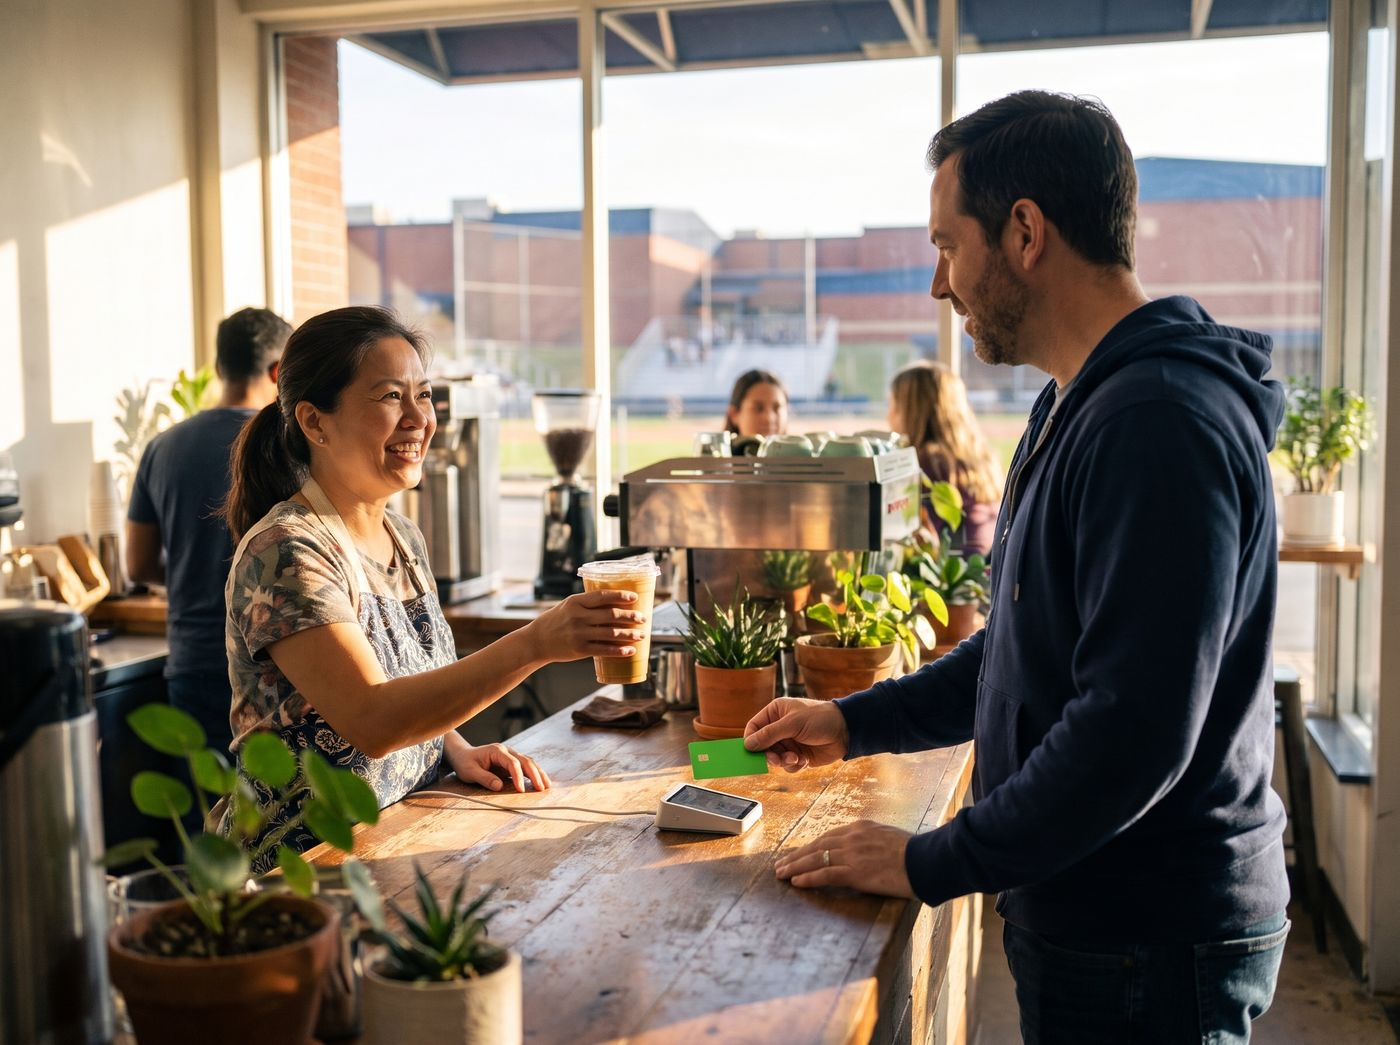
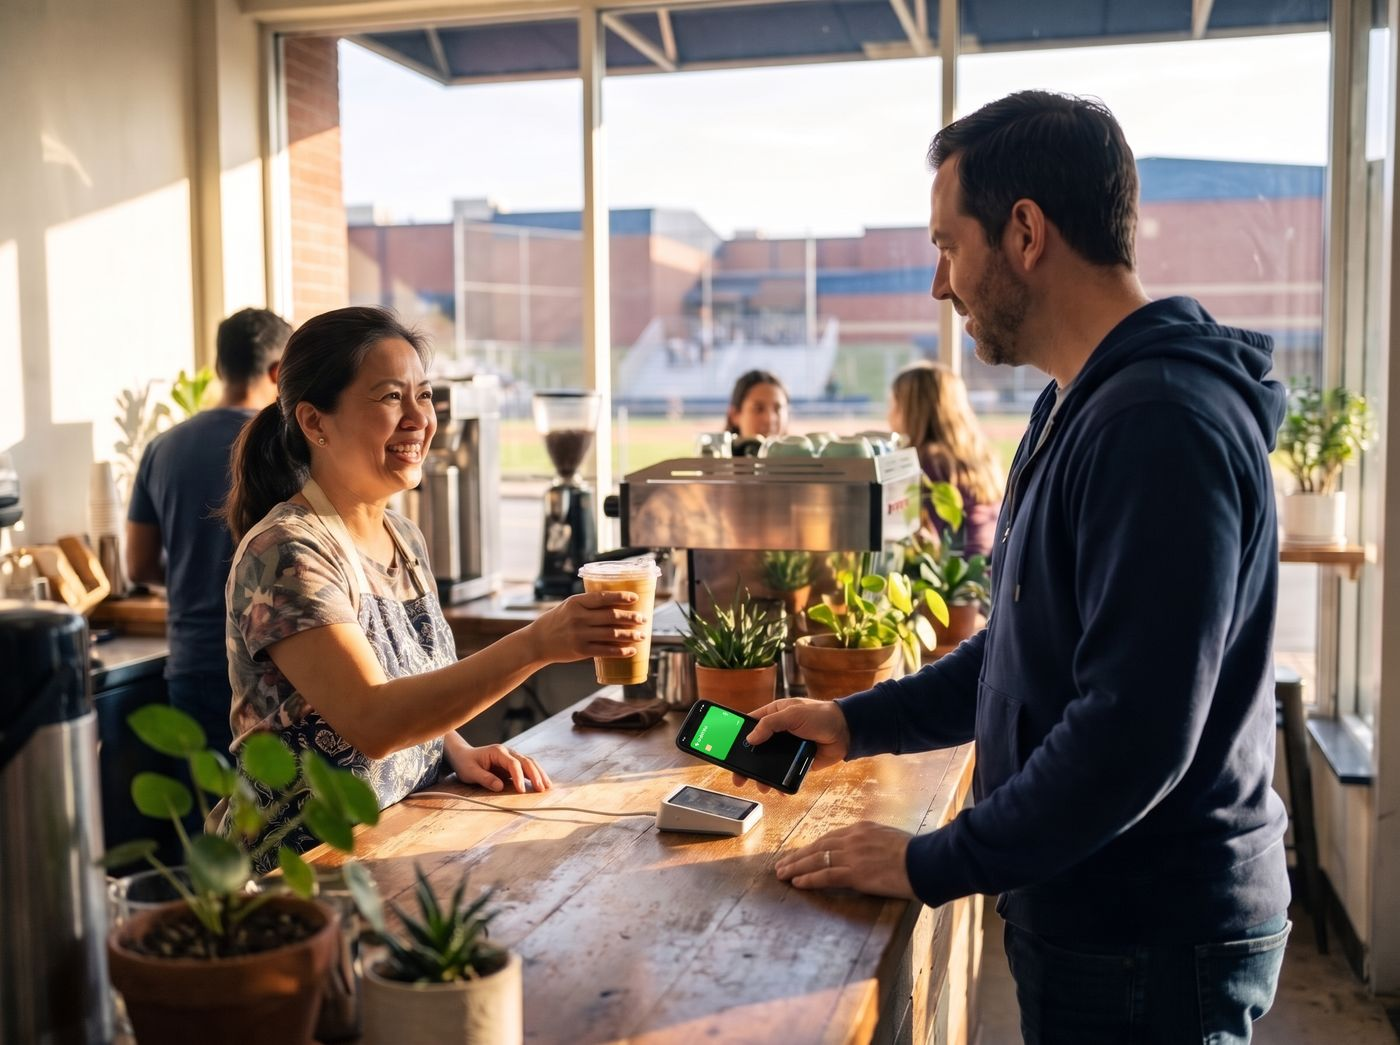
Where's Waldo: green cards become phones showing the GrabWallet card
Claude-Session: https://claude.ai/code/session_01KNTrY1nbzfWFg3wnpKtfcc

diff --git a/index.html b/index.html
@@ -511,7 +511,7 @@ p{margin:0}
         <h2>Get in front of game-day families.</h2>
         <p class="lead" style="margin-top:18px">Offer a reward to the families around a school, and they find you in the wallet when they are nearby.</p>
       </div>
-      <img class="photo" src="media/photo-coffee-shop.jpg" alt="A coffee shop owner hands a parent an iced coffee as he taps his card" loading="lazy">
+      <img class="photo" src="media/photo-coffee-shop.jpg" alt="A coffee shop owner hands a parent an iced coffee as he taps to pay with GrabWallet on his phone" loading="lazy">
     </div>
     <div class="tiers">
       <div><h3>Community</h3><p>A reward offer to the families around one school.</p></div>
